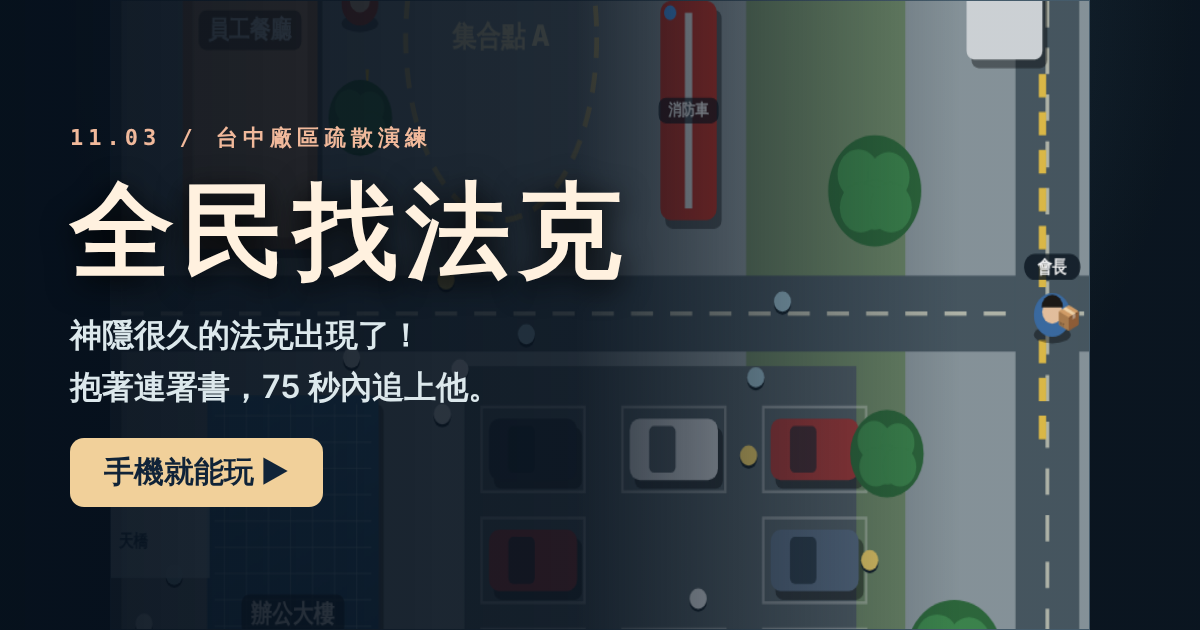
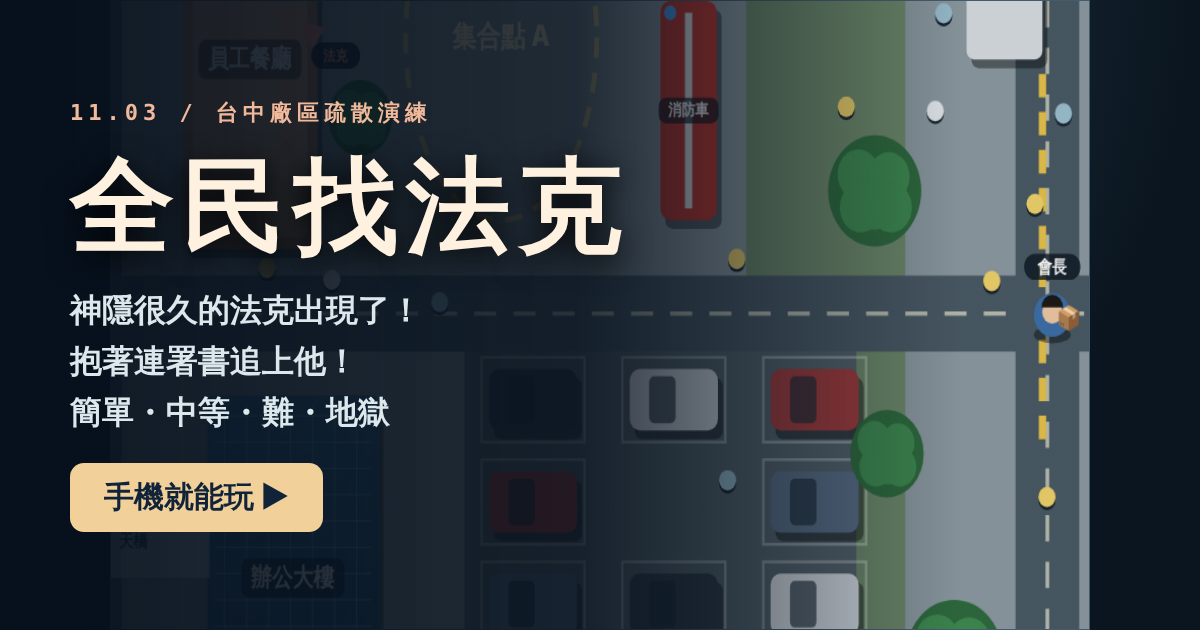
Tune hard difficulty, refresh share preview image
Claude-Session: https://claude.ai/code/session_01L1U3RUcidq1n8nzZY9VX12

diff --git a/game/chase.js b/game/chase.js
@@ -25,7 +25,7 @@ const WW=760,WH=1150,VIEW=430,TIME=75;
 const LEVELS={
  easy:{id:'easy',n:'簡單',e:'🌱',spd:116,spr:172,st:1.2,tired:2.8,tsp:55,hide:3,time:90,pick:3,see:120},
  normal:{id:'normal',n:'中等',e:'🏃',spd:124,spr:186,st:1.5,tired:2.4,tsp:60,hide:4,time:80,pick:3.5,see:110},
- hard:{id:'hard',n:'難',e:'🔥',spd:136,spr:205,st:2.0,tired:1.8,tsp:72,hide:6,time:70,pick:5,see:90},
+ hard:{id:'hard',n:'難',e:'🔥',spd:130,spr:198,st:1.8,tired:2.0,tsp:66,hide:5,time:75,pick:4.5,see:95},
  hell:{id:'hell',n:'地獄',e:'💀',spd:150,spr:232,st:2.8,tired:1.1,tsp:95,hide:10,time:60,pick:7,see:65}
 };
 const cars=[];[660,775,890].forEach((y,r)=>[0,1,2,3].forEach(i=>{if(!(r===1&&i===2))cars.push({t:'car',n:'',x:96+i*70,y,w:42,h:72,c:['#d8dde2','#5b6f86','#a33c3c','#2f3a46','#e6d7b8'][(i+r*2)%5]});}));
